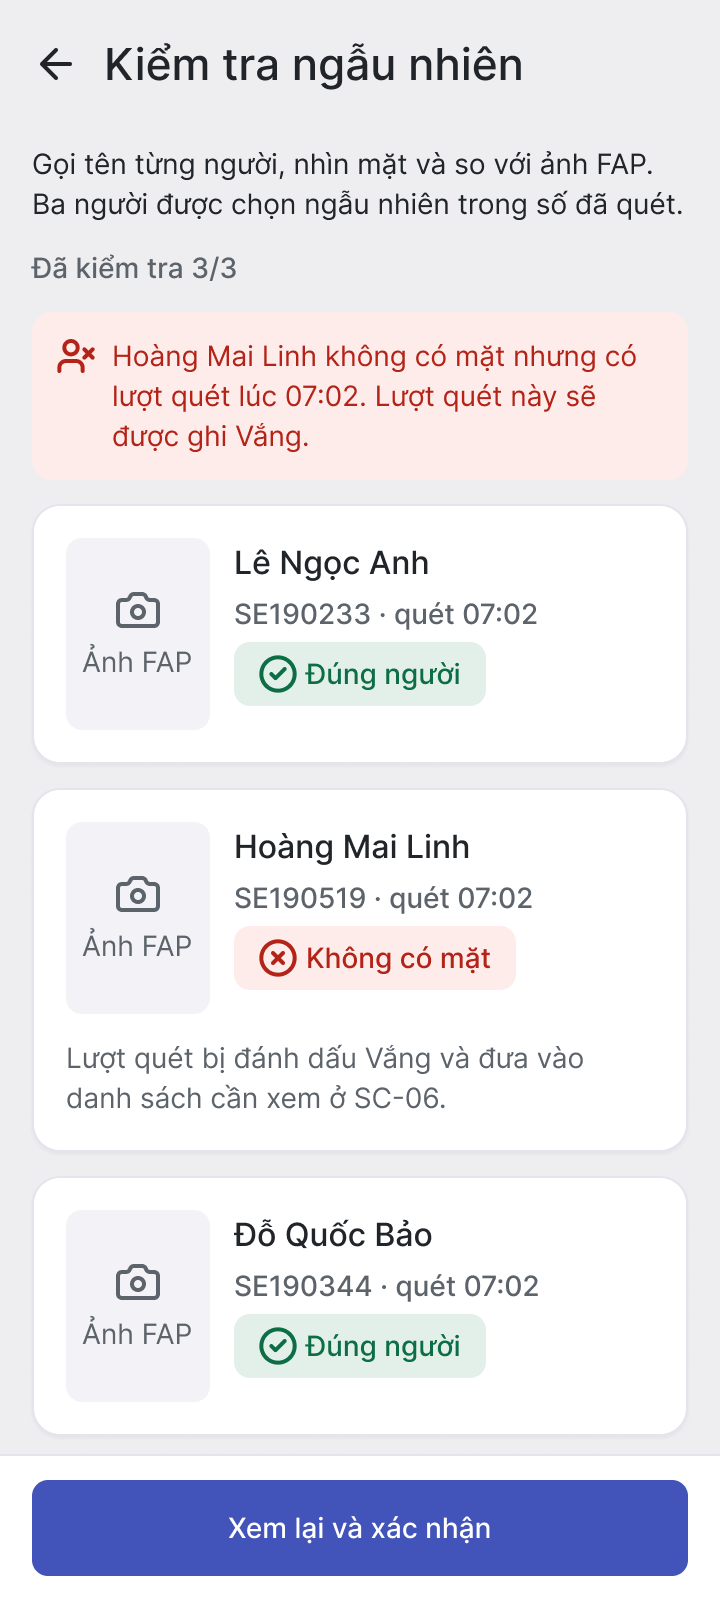
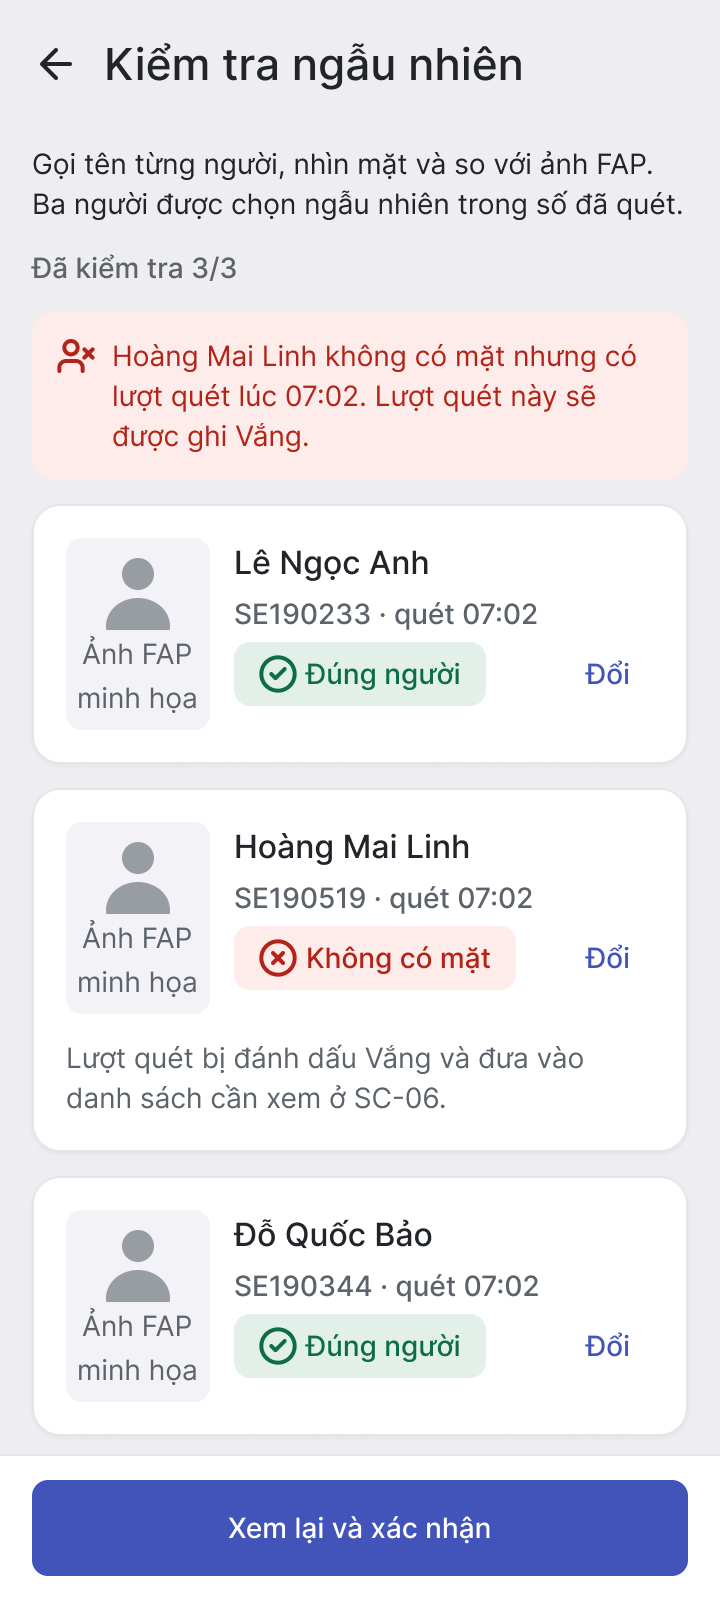
Sửa SC-05 và 9 nút ngoài kịch bản theo Codex Phần 2 (D-32)
CMP-15: ô ảnh thành hình minh họa có nhãn, thêm nút "Đổi" (CR-72,
CR-73). SC-08 sửa ô ảnh giống vậy. Trang 06: 9 nút ngoài kịch bản mở
overlay "Ngoài kịch bản demo" (CR-48). Xuất lại 8 ảnh, chạy lại bảng
liên kết prototype (184 tương tác, 0 liên kết hỏng).

Claude-Session: https://claude.ai/code/session_01MPJuKeLL2fQwoXmpsr75wd

diff --git a/design/prototype-links.md b/design/prototype-links.md
@@ -1,19 +1,22 @@
 # Bảng liên kết prototype (trang 06 Prototype)
 
-Bảng này do script đọc thẳng các `reactions` trên trang 06 của file Figma `9yDa2ylfREmndW1mK1hf7w` tạo ra, tối 15/10/2026, để người chấm không mở được chế độ Present vẫn kiểm được từng liên kết. Không có dòng nào gõ tay. Lý do làm: bản chấm chéo bằng Codex (AI-29) chỉ cho 5/10 phần prototype vì không chạy được prototype và repo không có bằng chứng liên kết (CR-66).
+Bảng này do script đọc thẳng các `reactions` trên trang 06 của file Figma `9yDa2ylfREmndW1mK1hf7w` tạo ra, để người chấm không mở được chế độ Present vẫn kiểm được từng liên kết. Không có dòng nào gõ tay. Lý do làm: bản chấm chéo bằng Codex (AI-29) chỉ cho 5/10 phần prototype vì không chạy được prototype và repo không có bằng chứng liên kết (CR-66). Chạy lần đầu tối 15/10/2026 (166 tương tác), chạy lại đêm 15/10 sau D-32 (thêm overlay “Ngoài kịch bản demo” và nút “Đổi” ở SC-05). Script bỏ qua phần tử nằm dưới một hotspot, vì khi bấm thì hotspot nhận trước.
 
 ## Số liệu
 
 | Mục | Giá trị |
 |---|---|
-| Frame trên trang 06 | 84 (kể cả 6 overlay, tên bắt đầu “OV”) |
+| Frame trên trang 06 | 85 (kể cả 7 overlay, tên bắt đầu “OV”) |
 | Điểm bắt đầu (flow starting point) | 12 |
-| Tương tác | 166 |
+| Tương tác | 184 |
 | Liên kết trỏ tới frame không tồn tại | 0 |
 | Frame không có lối ra | 0 |
 | Frame không có lối vào (trừ điểm bắt đầu) | 0 |
+| Nút ngoài kịch bản demo (mở overlay [84]) | 9 |
 
 Số trong ngoặc vuông là thứ tự frame trên trang 06. Một màn có thể có nhiều bản sao (ví dụ “lần 1”, “lần 2”, “sau Vy”) để mỗi luồng đi đúng một đường, không phụ thuộc trạng thái trước đó.
+
+Nút ngoài kịch bản demo là nút có trong thiết kế nhưng prototype chưa vẽ màn tiếp theo (CR-48): hai nút “Từ chối” và hai nút “Sửa thành Có mặt” ở SC-08 (mỗi ca chỉ vẽ một kết cục), bốn nút Có mặt / Vắng ở SC-06 nhánh còn lượt cần xem, và “Chiếu tạm mã từ điện thoại” ở SC-03. Bấm vào thì hiện overlay [84] nói rõ điều đó, thay vì không có gì xảy ra.
 
 ## Điểm bắt đầu
 
@@ -55,11 +58,15 @@ Số trong ngoặc vuông là thứ tự frame trên trang 06. Một màn có th
 | [06] SC-04 · Đối chiếu sĩ số · Số quét lớn hơn số người | Kiểm tra ngẫu nhiên | Bấm | [07] SC-05 · Kiểm tra ngẫu nhiên |
 | [06] SC-04 · Đối chiếu sĩ số · Số quét lớn hơn số người | hotspot · back | Bấm | Quay lại màn trước (Back) |
 | [07] SC-05 · Kiểm tra ngẫu nhiên | Ảnh FAP | Bấm | [08] SC-05 · Kiểm tra ngẫu nhiên · Đã kiểm tra 3/3 |
+| [07] SC-05 · Kiểm tra ngẫu nhiên | Đổi | Bấm | Đổi thẻ về trạng thái “Chờ” ngay trên màn (variant của CMP-15) |
 | [07] SC-05 · Kiểm tra ngẫu nhiên | Ảnh FAP | Bấm | [08] SC-05 · Kiểm tra ngẫu nhiên · Đã kiểm tra 3/3 |
 | [07] SC-05 · Kiểm tra ngẫu nhiên | Ảnh FAP | Bấm | [08] SC-05 · Kiểm tra ngẫu nhiên · Đã kiểm tra 3/3 |
 | [07] SC-05 · Kiểm tra ngẫu nhiên | hotspot · back | Bấm | Quay lại màn trước (Back) |
 | [08] SC-05 · Kiểm tra ngẫu nhiên · Đã kiểm tra 3/3 | Xem lại và xác nhận | Bấm | [09] SC-06 · Xem lại và xác nhận |
 | [08] SC-05 · Kiểm tra ngẫu nhiên · Đã kiểm tra 3/3 | hotspot · back | Bấm | Quay lại màn trước (Back) |
+| [08] SC-05 · Kiểm tra ngẫu nhiên · Đã kiểm tra 3/3 | hotspot · Đổi | Bấm | [07] SC-05 · Kiểm tra ngẫu nhiên |
+| [08] SC-05 · Kiểm tra ngẫu nhiên · Đã kiểm tra 3/3 | hotspot · Đổi | Bấm | [07] SC-05 · Kiểm tra ngẫu nhiên |
+| [08] SC-05 · Kiểm tra ngẫu nhiên · Đã kiểm tra 3/3 | hotspot · Đổi | Bấm | [07] SC-05 · Kiểm tra ngẫu nhiên |
 | [09] SC-06 · Xem lại và xác nhận | Ghi tay thêm sinh viên | Bấm | [71] OV · Sheet Ghi tay thêm sinh viên (overlay) |
 | [09] SC-06 · Xem lại và xác nhận | Xác nhận và gửi lên FAP | Bấm | [16] OV · Dialog xác nhận gửi lên FAP (overlay) |
 | [09] SC-06 · Xem lại và xác nhận | hotspot · back | Bấm | Quay lại màn trước (Back) |
@@ -142,6 +149,7 @@ Số trong ngoặc vuông là thứ tự frame trên trang 06. Một màn có th
 | [52] SC-07 · Báo sai hôm nay | hotspot · tab left | Bấm | [51] SC-02 · Lịch dạy hôm nay · Có báo sai mới |
 | [53] SC-08 · Chi tiết báo sai · Hoàng Mai Linh | Từ chối | Bấm | [58] OV · Dialog từ chối báo sai (overlay) |
 | [53] SC-08 · Chi tiết báo sai · Hoàng Mai Linh | hotspot · back | Bấm | Quay lại màn trước (Back) |
+| [53] SC-08 · Chi tiết báo sai · Hoàng Mai Linh | hotspot · Sửa thành Có mặt ( | Bấm | [84] OV · Ngoài kịch bản demo (overlay) |
 | [54] SC-08 · Chi tiết báo sai · Đã sửa | Về danh sách báo sai | Bấm | [55] SC-07 · Báo sai hôm nay · Đã xử lý hết |
 | [54] SC-08 · Chi tiết báo sai · Đã sửa | hotspot · back | Bấm | [55] SC-07 · Báo sai hôm nay · Đã xử lý hết |
 | [55] SC-07 · Báo sai hôm nay · Đã xử lý hết | hotspot · tab left | Bấm | [57] SC-02 · Lịch dạy hôm nay · Đã xử lý hết báo sai |
@@ -154,6 +162,7 @@ Số trong ngoặc vuông là thứ tự frame trên trang 06. Một màn có th
 | [59] OV · Sheet Không quét được? | Đã hiểu | Bấm | Đóng overlay |
 | [60] SC-08 · Chi tiết báo sai · Ngô Thanh Vy | Sửa thành Có mặt | Bấm | [54] SC-08 · Chi tiết báo sai · Đã sửa |
 | [60] SC-08 · Chi tiết báo sai · Ngô Thanh Vy | hotspot · back | Bấm | Quay lại màn trước (Back) |
+| [60] SC-08 · Chi tiết báo sai · Ngô Thanh Vy | hotspot · Từ chối (ngoài kịc | Bấm | [84] OV · Ngoài kịch bản demo (overlay) |
 | [61] SC-09 · Hôm nay (sinh viên) · Báo sai có kết quả (K3) | Link · Báo sai điểm danh | Bấm | [45] SC-14 · Báo sai của tôi · Đã sửa |
 | [61] SC-09 · Hôm nay (sinh viên) · Báo sai có kết quả (K3) | hotspot · tab right | Bấm | [45] SC-14 · Báo sai của tôi · Đã sửa |
 | [62] SC-09 · Hôm nay (sinh viên) · Báo sai có kết quả, đã xem | Link · Báo sai điểm danh | Bấm | [45] SC-14 · Báo sai của tôi · Đã sửa |
@@ -163,12 +172,14 @@ Số trong ngoặc vuông là thứ tự frame trên trang 06. Một màn có th
 | [64] SC-09 · Hôm nay (sinh viên) · Báo sai bị từ chối | hotspot · tab right | Bấm | [47] SC-14 · Báo sai của tôi · Bị từ chối |
 | [65] SC-08 · Chi tiết báo sai · Ngô Thanh Vy (xử lý trước) | Sửa thành Có mặt | Bấm | [66] SC-08 · Chi tiết báo sai · Đã sửa (Vy trước) |
 | [65] SC-08 · Chi tiết báo sai · Ngô Thanh Vy (xử lý trước) | hotspot · back | Bấm | Quay lại màn trước (Back) |
+| [65] SC-08 · Chi tiết báo sai · Ngô Thanh Vy (xử lý trước) | hotspot · Từ chối (ngoài kịc | Bấm | [84] OV · Ngoài kịch bản demo (overlay) |
 | [66] SC-08 · Chi tiết báo sai · Đã sửa (Vy trước) | Về danh sách báo sai | Bấm | [67] SC-07 · Báo sai hôm nay · Sau khi sửa Vy |
 | [66] SC-08 · Chi tiết báo sai · Đã sửa (Vy trước) | hotspot · back | Bấm | [67] SC-07 · Báo sai hôm nay · Sau khi sửa Vy |
 | [67] SC-07 · Báo sai hôm nay · Sau khi sửa Vy | Hoàng Mai Linh · PRM393 Slot | Bấm | [68] SC-08 · Chi tiết báo sai · Hoàng Mai Linh (sau Vy) |
 | [67] SC-07 · Báo sai hôm nay · Sau khi sửa Vy | hotspot · tab left | Bấm | [70] SC-02 · Lịch dạy hôm nay · Còn 1 báo sai (Linh) |
 | [68] SC-08 · Chi tiết báo sai · Hoàng Mai Linh (sau Vy) | Từ chối | Bấm | [69] OV · Dialog từ chối báo sai (sau Vy) (overlay) |
 | [68] SC-08 · Chi tiết báo sai · Hoàng Mai Linh (sau Vy) | hotspot · back | Bấm | Quay lại màn trước (Back) |
+| [68] SC-08 · Chi tiết báo sai · Hoàng Mai Linh (sau Vy) | hotspot · Sửa thành Có mặt ( | Bấm | [84] OV · Ngoài kịch bản demo (overlay) |
 | [69] OV · Dialog từ chối báo sai (sau Vy) | hotspot · Hủy | Bấm | Đóng overlay |
 | [69] OV · Dialog từ chối báo sai (sau Vy) | hotspot · Từ chối | Bấm | [79] SC-08 · Chi tiết báo sai · Đã từ chối (sau Vy) |
 | [70] SC-02 · Lịch dạy hôm nay · Còn 1 báo sai (Linh) | hotspot · tab right | Bấm | [67] SC-07 · Báo sai hôm nay · Sau khi sửa Vy |
@@ -188,6 +199,7 @@ Số trong ngoặc vuông là thứ tự frame trên trang 06. Một màn có th
 | [77] SC-03 · Phiên điểm danh · Laptop chưa kết nối | cả frame | Tự chuyển sau thời gian chờ | [03] SC-03 · Phiên điểm danh |
 | [77] SC-03 · Phiên điểm danh · Laptop chưa kết nối | Đóng QR và kiểm tra | Bấm | [15] OV · Dialog đóng QR sớm (overlay) |
 | [77] SC-03 · Phiên điểm danh · Laptop chưa kết nối | hotspot · back | Bấm | Quay lại màn trước (Back) |
+| [77] SC-03 · Phiên điểm danh · Laptop chưa kết nối | hotspot · Chiếu tạm mã từ đi | Bấm | [84] OV · Ngoài kịch bản demo (overlay) |
 | [78] SC-08 · Chi tiết báo sai · Đã từ chối (Giữ Vắng) | Về danh sách báo sai | Bấm | [56] SC-07 · Báo sai hôm nay · Sau khi từ chối |
 | [78] SC-08 · Chi tiết báo sai · Đã từ chối (Giữ Vắng) | hotspot · back | Bấm | [56] SC-07 · Báo sai hôm nay · Sau khi từ chối |
 | [79] SC-08 · Chi tiết báo sai · Đã từ chối (sau Vy) | Về danh sách báo sai | Bấm | [55] SC-07 · Báo sai hôm nay · Đã xử lý hết |
@@ -195,10 +207,19 @@ Số trong ngoặc vuông là thứ tự frame trên trang 06. Một màn có th
 | [80] SC-04 · Đối chiếu sĩ số · Số quét lớn hơn số người (nhánh cờ) | Kiểm tra ngẫu nhiên | Bấm | [81] SC-05 · Kiểm tra ngẫu nhiên (nhánh cờ) |
 | [80] SC-04 · Đối chiếu sĩ số · Số quét lớn hơn số người (nhánh cờ) | hotspot · back | Bấm | Quay lại màn trước (Back) |
 | [81] SC-05 · Kiểm tra ngẫu nhiên (nhánh cờ) | Ảnh FAP | Bấm | [82] SC-05 · Kiểm tra ngẫu nhiên · Đã kiểm tra 3/3 (nhánh cờ) |
+| [81] SC-05 · Kiểm tra ngẫu nhiên (nhánh cờ) | Đổi | Bấm | Đổi thẻ về trạng thái “Chờ” ngay trên màn (variant của CMP-15) |
 | [81] SC-05 · Kiểm tra ngẫu nhiên (nhánh cờ) | Ảnh FAP | Bấm | [82] SC-05 · Kiểm tra ngẫu nhiên · Đã kiểm tra 3/3 (nhánh cờ) |
 | [81] SC-05 · Kiểm tra ngẫu nhiên (nhánh cờ) | Ảnh FAP | Bấm | [82] SC-05 · Kiểm tra ngẫu nhiên · Đã kiểm tra 3/3 (nhánh cờ) |
 | [81] SC-05 · Kiểm tra ngẫu nhiên (nhánh cờ) | hotspot · back | Bấm | Quay lại màn trước (Back) |
 | [82] SC-05 · Kiểm tra ngẫu nhiên · Đã kiểm tra 3/3 (nhánh cờ) | Xem lại và xác nhận | Bấm | [83] SC-06 · Xem lại và xác nhận · Còn lượt quét cần xem (NT-3) |
 | [82] SC-05 · Kiểm tra ngẫu nhiên · Đã kiểm tra 3/3 (nhánh cờ) | hotspot · back | Bấm | Quay lại màn trước (Back) |
+| [82] SC-05 · Kiểm tra ngẫu nhiên · Đã kiểm tra 3/3 (nhánh cờ) | hotspot · Đổi | Bấm | [81] SC-05 · Kiểm tra ngẫu nhiên (nhánh cờ) |
+| [82] SC-05 · Kiểm tra ngẫu nhiên · Đã kiểm tra 3/3 (nhánh cờ) | hotspot · Đổi | Bấm | [81] SC-05 · Kiểm tra ngẫu nhiên (nhánh cờ) |
+| [82] SC-05 · Kiểm tra ngẫu nhiên · Đã kiểm tra 3/3 (nhánh cờ) | hotspot · Đổi | Bấm | [81] SC-05 · Kiểm tra ngẫu nhiên (nhánh cờ) |
 | [83] SC-06 · Xem lại và xác nhận · Còn lượt quét cần xem (NT-3) | Ghi tay thêm sinh viên | Bấm | [71] OV · Sheet Ghi tay thêm sinh viên (overlay) |
 | [83] SC-06 · Xem lại và xác nhận · Còn lượt quét cần xem (NT-3) | hotspot · back | Bấm | Quay lại màn trước (Back) |
+| [83] SC-06 · Xem lại và xác nhận · Còn lượt quét cần xem (NT-3) | hotspot · Có mặt (ngoài kịch | Bấm | [84] OV · Ngoài kịch bản demo (overlay) |
+| [83] SC-06 · Xem lại và xác nhận · Còn lượt quét cần xem (NT-3) | hotspot · Vắng (ngoài kịch b | Bấm | [84] OV · Ngoài kịch bản demo (overlay) |
+| [83] SC-06 · Xem lại và xác nhận · Còn lượt quét cần xem (NT-3) | hotspot · Có mặt (ngoài kịch | Bấm | [84] OV · Ngoài kịch bản demo (overlay) |
+| [83] SC-06 · Xem lại và xác nhận · Còn lượt quét cần xem (NT-3) | hotspot · Vắng (ngoài kịch b | Bấm | [84] OV · Ngoài kịch bản demo (overlay) |
+| [84] OV · Ngoài kịch bản demo | hotspot · Đã hiểu | Bấm | Đóng overlay |

diff --git a/ai/reviews/AI-29-triage.md b/ai/reviews/AI-29-triage.md
@@ -4,7 +4,7 @@
 |---|---|
 | Đầu vào | `ai/reviews/AI-29-codex-phan-1.md` và `ai/reviews/AI-29-codex-phan-2.md` (nguyên văn), commit Codex chấm `1242923` |
 | Người phân loại | Claude, 15/10/2026 tối |
-| Trạng thái | Đã duyệt (thien, 15/10/2026): chọn “Sửa 3 lỗi chữ” trên thẻ quyết định. CR-63, CR-67, CR-68 đã sửa; CR-70 giữ 3 màn đại diện. Mục 7 (Phần 2) chờ thien quyết |
+| Trạng thái | Đã duyệt (thien, 15/10/2026): chọn “Sửa 3 lỗi chữ” trên thẻ quyết định. CR-63, CR-67, CR-68 đã sửa; CR-70 giữ 3 màn đại diện. Mục 7 (Phần 2): thien chọn “Sửa cả hai” (D-32) |
 | Cách kiểm | Mở lại từng frame trên Figma (trang 03 và 06) và đối chiếu với `design/screen-spec.md`. Mỗi kết luận bên dưới trỏ về một ảnh hoặc một dòng trong repo |
 
 **Lưu ý về thiên lệch:** người phân loại là Claude, cũng là mô hình đã dựng phần lớn bài. Vì vậy một phát hiện của Codex chỉ được ghi là “Không đúng” khi có ảnh xuất từ Figma cho thấy điều ngược lại. Ảnh đó nay nằm trong repo để ai cũng kiểm lại được. Phát hiện nào chỉ phản bác được bằng lời mô tả thì giữ là “Đúng một phần” hoặc “Đúng”.
@@ -71,9 +71,9 @@ Codex đối chiếu ở commit `1242923`, chưa thấy `6bf3c45` (CR-66) và `6
 | Nhận định của Codex | Kiểm lại | Việc |
 |---|---|---|
 | SC-04 “Chênh −1” cạnh “Dư 1”: điểm mù của Claude | Đúng. Đã sửa ở `61685f2` (CR-63, D-31) | Xong |
-| SC-05 ô “Ảnh FAP” trống đụng thẳng lý do chống quét hộ (DD-3) | **Đúng, nặng hơn Phần 1.** Màn bảo giảng viên “nhìn mặt và so với ảnh FAP” (`design/screen-spec.md` SC-05 mục 2) nhưng không có ảnh nào để so. Người xem không biết bản thật có ảnh | CR-72 nâng lên Trung bình. Đề xuất ghi nhãn “Ảnh hồ sơ FAP · minh họa” ngay trên Figma, không dùng ảnh người thật. Chờ thien |
-| SC-05 thiếu phản hồi và hoàn tác | **Đúng một nửa.** Có phản hồi: frame “Đã kiểm tra 3/3” hiện kết quả từng thẻ và banner. Không có hoàn tác: bấm nhầm “Không có mặt” thì lượt quét bị ghi Vắng, SC-06 không có chỗ đổi lại, sinh viên chỉ còn đường báo sai | CR-73 · Trung bình. Đề xuất thêm nút “Đổi” trên thẻ đã kiểm. Chờ thien |
-| 9 nút không phản hồi trên prototype (ưu tiên 1 của Codex) | **Đúng.** CR-48 đã ghi lý do cho 9 nút, nhưng khi demo trực tiếp, bấm nhầm một nút sẽ không có gì xảy ra và trông như prototype hỏng | Đề xuất trên trang 06: nối 9 nút tới một overlay “Ngoài kịch bản demo” có nút Đóng. Không đổi trang 03. Chờ thien |
+| SC-05 ô “Ảnh FAP” trống đụng thẳng lý do chống quét hộ (DD-3) | **Đúng, nặng hơn Phần 1.** Màn bảo giảng viên “nhìn mặt và so với ảnh FAP” (`design/screen-spec.md` SC-05 mục 2) nhưng không có ảnh nào để so. Người xem không biết bản thật có ảnh | CR-72 nâng lên Trung bình. **Đã sửa (D-32):** ô ảnh ở SC-05 và SC-08 thành hình người minh họa có nhãn “Ảnh FAP · minh họa”, không dùng ảnh người thật |
+| SC-05 thiếu phản hồi và hoàn tác | **Đúng một nửa.** Có phản hồi: frame “Đã kiểm tra 3/3” hiện kết quả từng thẻ và banner. Không có hoàn tác trên Figma và trong spec: bấm nhầm “Không có mặt” thì lượt quét bị ghi Vắng, SC-06 không có chỗ đổi lại, sinh viên chỉ còn đường báo sai. Khi sửa, Claude thấy handoff (SC-05 mục 4, CMP-15) đã viết nút “Đổi” từ trước, nên đây còn là chỗ handoff và Figma lệch nhau | CR-73 · Trung bình. **Đã sửa (D-32):** CMP-15 có nút “Đổi”, spec ghi theo |
+| 9 nút không phản hồi trên prototype (ưu tiên 1 của Codex) | **Đúng.** CR-48 đã ghi lý do cho 9 nút, nhưng khi demo trực tiếp, bấm nhầm một nút sẽ không có gì xảy ra và trông như prototype hỏng | **Đã sửa (D-32):** trên trang 06, 9 nút mở overlay “Ngoài kịch bản demo” có nút “Đã hiểu”. Trang 03 giữ nguyên. Bảng liên kết chạy lại: 184 tương tác, 0 liên kết hỏng |
 | SC-08 không có ảnh dialog từ chối | Đúng ở `1242923`. Nay có `SC-08-dialog-tu-choi-destructive.png` (CR-66). Không có ô nhập lý do là chủ ý (mục 2, phát hiện 8) | Không làm thêm |
 | 412 dp chỉ 3 màn | Đúng. thien đã chọn giữ 3 màn (D-31) | Không làm thêm |
 | Link slide chưa chứng minh là xem được | Đúng. README vẫn ghi “cần được chia sẻ quyền xem” | Việc của thien: bật chia sẻ, mở thử bằng cửa sổ ẩn danh, tải bản PDF dự phòng |

diff --git a/handoff/flutter-handoff.md b/handoff/flutter-handoff.md
@@ -226,8 +226,8 @@ Mỗi màn có 6 mục theo đề bài. Tên frame trong ngoặc kép là tên f
 
 1. **Bố cục.** `Scaffold` → `AppBar` (CMP-05 Default “Kiểm tra ngẫu nhiên”) → `ListView`, padding `s4`: hướng dẫn `bodyMedium` → khoảng `s3` → tiến độ “Đã kiểm tra n/3” `titleMedium` → banner kết quả (nếu có người không có mặt) → 3 thẻ CMP-15 cách nhau `s3` → thanh hành động đáy: dòng nhắc (khi chưa đủ) và nút chính.
 2. **Component.** CMP-05 · Default; CMP-15 Spot-check card · Chờ, Đúng người, Không có mặt; CMP-10 · Đúng người, Không có mặt (sau khi chọn); banner nền `errorContainer`; CMP-01 · Primary (Disabled khi chưa đủ 3).
-3. **Trạng thái.** Đang kiểm (“SC-05 · Kiểm tra ngẫu nhiên (L4)”). Đã kiểm 3/3, có người không có mặt (“… · Đã kiểm tra 3/3”). Đã kiểm 3/3, cả 3 đúng người: không có banner. Ảnh FAP không tải được: hiện chữ cái đầu trên nền `surfaceContainerHighest` và dòng “Không tải được ảnh FAP”; giảng viên vẫn chọn được.
-4. **Tương tác.** Ba người được máy chủ chọn ngẫu nhiên trong số đã quét lúc màn mở; không chọn lại khi quay lại màn. Chạm “Đúng người” hoặc “Không có mặt” trên từng thẻ; chọn “Không có mặt” thì lượt quét đó chuyển thành Vắng và được ghi lý do “không có mặt khi kiểm tra”. Đổi ý: chạm “Đổi” trên thẻ đã chọn. Theo FL-1, khi có người không có mặt, hệ thống thêm 3 thẻ nữa (chưa vẽ; prototype đi thẳng sang SC-06). “Xem lại và xác nhận” chỉ bật khi mọi thẻ đã có kết quả.
+3. **Trạng thái.** Đang kiểm (“SC-05 · Kiểm tra ngẫu nhiên (L4)”). Đã kiểm 3/3, có người không có mặt (“… · Đã kiểm tra 3/3”). Đã kiểm 3/3, cả 3 đúng người: không có banner. Ảnh FAP không tải được: hiện chữ cái đầu trên nền `surfaceContainerHighest` và dòng “Không tải được ảnh FAP”; giảng viên vẫn chọn được. Ô ảnh trên Figma là hình người minh họa có nhãn “minh họa”; app thật hiện ảnh hồ sơ FAP (CR-72).
+4. **Tương tác.** Ba người được máy chủ chọn ngẫu nhiên trong số đã quét lúc màn mở; không chọn lại khi quay lại màn. Chạm “Đúng người” hoặc “Không có mặt” trên từng thẻ; chọn “Không có mặt” thì lượt quét đó chuyển thành Vắng và được ghi lý do “không có mặt khi kiểm tra”. Đổi ý: chạm “Đổi” trên thẻ đã chọn, thẻ về trạng thái Chờ và lượt quét bỏ dấu Vắng (CR-73; trên Figma là biến thể CMP-15 có nút “Đổi” từ 15/10). Theo FL-1, khi có người không có mặt, hệ thống thêm 3 thẻ nữa (chưa vẽ; prototype đi thẳng sang SC-06). “Xem lại và xác nhận” chỉ bật khi mọi thẻ đã có kết quả.
 5. **Điều hướng.** Vào từ: SC-04. Đi tới: SC-06 (`push`). Back: về SC-04, kết quả đã chọn được giữ.
 6. **Ràng buộc.** Ảnh FAP 72 × 72, bo `AppRadius.md`, có `semanticLabel` “Ảnh FAP của Lê Ngọc Anh”. Hai nút trên thẻ mỗi nút cao 48, chia đôi chiều rộng; chữ lớn thì xếp dọc. Không cho bỏ qua kiểm tra (NT-3).
 

diff --git a/process/decision-log.md b/process/decision-log.md
@@ -36,3 +36,4 @@ Trạng thái: **MỞ** (chờ thien) · **CHỐT** · **TẠM** (Claude làm ti
 | D-29 | TC-1 (≤ 2 phút 30 giây) đo từ lúc nào? | A. Từ lúc QR đóng tới lúc xác nhận: chỉ tính phần việc riêng của giảng viên · B. Từ đầu slot: ≤ 7 phút 30 giây (5 phút QR + 2 phút 30) · C. Giữ từ lúc mở QR | **A.** Bản chấm độc lập (AI-27, N-5) chỉ ra TC-1 cũ không thể đạt: D-28 giữ QR mở 5 phút, nên “từ lúc mở QR ≤ 2:30” mâu thuẫn với chính thiết kế. B trung thực nhưng ngang mức gọi tên 6–8 phút (Q08), mất lập luận “nhanh hơn”. A đo đúng phần giảng viên phải làm; đổi lại thêm một giả định Assumed: giảng viên vào bài trong 5 phút QR mở, cần kiểm chứng trong buổi thử | **A · Từ lúc QR đóng** (thien chọn trên thẻ quyết định, 15/10/2026) | CHỐT |
 | D-30 | File Figma đang nằm trong team của một tài khoản edu mượn để có lượt gọi Figma MCP. Chuyển sang tài khoản của nhóm hay giữ nguyên? | A. Giữ nguyên, ghi rõ trong README · B. Chuyển sang tài khoản của nhóm trước buổi thuyết trình | **A.** Chuyển file làm mất lịch sử phiên bản, mà lịch sử đó là bằng chứng Figma dựng sau Stitch. Bản sao trên tài khoản của thien đã có nhưng không có lịch sử, nên chỉ để dự phòng. Ghi thẳng trong README để người chấm không phải đoán | A, ngày 15/10/2026 (nguyên văn: “giữ nguyên”) | CHỐT |
 | D-31 | Sau chấm chéo Codex (AI-29), sửa ba lỗi chữ CR-63 (SC-04), CR-67 (SC-03 mở từ xa), CR-68 (SC-11) trên Figma ngay tối 15/10? CR-63 trước đó đã được duyệt là hạn chế | A. Sửa 3 lỗi chữ, 412 dp giữ 3 màn đại diện · B. Sửa chữ và thêm 4 màn 412 dp · C. Giữ nguyên, ghi là hạn chế | **A.** Hai bản chấm độc lập (Claude và Codex) cùng bắt CR-63, Codex xếp mức Cao. Ba lỗi đều chỉ là chữ, sửa được mà không đổi luồng. Thêm 412 dp tốn quota Figma mượn mà 3 màn đại diện đã đủ cho thấy bố cục co giãn | A · Sửa 3 lỗi chữ (thien chọn trên thẻ quyết định, 15/10/2026 tối) | CHỐT |
+| D-32 | Sau Codex Phần 2, sửa SC-05 (ô ảnh FAP trống, không hoàn tác được “Không có mặt”) và 9 nút không phản hồi trên prototype trước buổi thuyết trình? | A. Sửa cả hai · B. Chỉ sửa SC-05 · C. Giữ nguyên, ghi là hạn chế | **A.** Ô ảnh trống làm yếu lý do chống quét hộ (DD-3), và nút im lặng lúc demo dễ bị đọc là prototype hỏng. Sửa cả hai chỉ tốn khoảng 3 lượt gọi Figma | A · Sửa cả hai (thien chọn trên thẻ quyết định, 16/10/2026 01:02) | CHỐT |

diff --git a/process/traceability-matrix.md b/process/traceability-matrix.md
@@ -76,8 +76,8 @@ Nguồn (S/H, R, O, T, Survey) → Phát hiện F → Nhu cầu N → Persona P 
 | CR-49..CR-53 (bản chấm độc lập, đợt 5, 15/10) | Nielsen #4, #8; UI Simplicity A4; D-27; D-29 | Accept, sửa luôn | D-27, D-29 | SC-01, SC-02, FL-1, FL-2 (trang 01), CMP-08, CMP-14 (trang 05), trang 03, 06 |
 | CR-54..CR-63 (critique Stitch IT-0b và IT-3, 15/10) | Nielsen #1, #2, #4, #8; WCAG 1.4.4, 1.4.10; D-21, D-23, D-24 | Accept 8 (Figma đã đúng), Reject CR-62, Modify CR-63, ban đầu ghi là hạn chế (thien duyệt 15/10), sau AI-29 thì sửa (D-31) | D-21, D-23, D-24 | SC-02, SC-03, SC-04, SC-05, SC-06 (`design/stitch-critique-it3.md`) |
 | CR-64, CR-65 (Claude tự rà, 15/10 tối) | Nielsen #4; nhất quán dữ liệu với D-29 | Accept, sửa luôn | D-29 | SC-04, SC-05, SC-06, SC-07, CMP-11, CMP-15; 29 ảnh `assets/figma/` |
-| CR-66..CR-72 (chấm chéo Codex AI-29, 15/10 tối) | Rubric “Prototype”, “Component states”; Nielsen #1, #2, #9; WCAG 1.4.10 | CR-66 Accept, đã làm; CR-67, CR-68 Accept, đã sửa; CR-69 hạn chế; CR-70 giữ 3 màn (thien chọn); CR-71 việc của nhóm; CR-72 Modify | — | SC-03, SC-05, SC-11, SC-13; `assets/figma/INDEX.md`, `design/prototype-links.md` (`ai/reviews/AI-29-triage.md`) |
-| CR-73 (Codex Phần 2, 15/10 tối) | Nielsen #3 (kiểm soát và tự do), #5 | Chờ thien | D-21 | SC-05 (`ai/reviews/AI-29-triage.md` mục 7) |
+| CR-66..CR-72 (chấm chéo Codex AI-29, 15/10 tối) | Rubric “Prototype”, “Component states”; Nielsen #1, #2, #9; WCAG 1.4.10 | CR-66 Accept, đã làm; CR-67, CR-68 Accept, đã sửa; CR-69 hạn chế; CR-70 giữ 3 màn (thien chọn); CR-71 việc của nhóm; CR-72 sửa trên Figma (D-32) | — | SC-03, SC-05, SC-11, SC-13; `assets/figma/INDEX.md`, `design/prototype-links.md` (`ai/reviews/AI-29-triage.md`) |
+| CR-73 (Codex Phần 2, 15/10 tối) | Nielsen #3 (kiểm soát và tự do), #5 | Accept, sửa (D-32) | D-21, D-32 | SC-05 (`ai/reviews/AI-29-triage.md` mục 7) |
 
 ## 5. Kiểm tra độ phủ (chạy trước khi nộp)
 

diff --git a/design/final-ui-review.md b/design/final-ui-review.md
@@ -57,10 +57,13 @@ Nguồn: một phiên Claude riêng chấm lại toàn bộ bài theo đề, gui
 
 ## 5. Sửa theo chấm chéo Codex (AI-29, 15/10/2026 tối)
 
-Nguồn: `ai/reviews/AI-29-triage.md`. thien chọn “Sửa 3 lỗi chữ” (D-31).
+Nguồn: `ai/reviews/AI-29-triage.md`. thien chọn “Sửa 3 lỗi chữ” (D-31) sau Phần 1 và “Sửa cả hai” (D-32) sau Phần 2.
 
 | Mã | Lỗi | Sửa |
 |---|---|---|
 | CR-63 | SC-04 ghi “Chênh −1” trong khi banner ngay dưới nói “Dư 1 lượt quét” | Ô thứ ba thành “Quét dư”: số quét trừ số quét dự kiến (người trong phòng trừ người chưa quét được đánh dấu “Trong phòng”). Ba biến thể ghi +1, +1, 0 |
 | CR-67 | SC-03 Mở từ xa hứa “mã không bị chụp gửi ra ngoài”, nhưng người trong phòng vẫn chụp được mã trên màn hình lớp | Câu mới: mã chỉ xuất hiện trong phòng học, vẫn có thể bị chụp lại, nên khi vào lớp vẫn đối chiếu sĩ số |
 | CR-68 | SC-11 “Đã quét rồi” hiện hai giờ quét khác nhau (07:01:04 trong câu, 07:03:10 trong ô) | Nhãn ô đổi thành “Lần quét này” |
+| CR-72 | Ô “Ảnh FAP” ở SC-05 và SC-08 chỉ có biểu tượng máy ảnh. Màn bảo giảng viên so mặt với ảnh FAP mà không có ảnh để so, người xem không biết bản thật có ảnh | Hình người minh họa kèm chữ “minh họa”, không dùng ảnh người thật. Spec và handoff ghi rằng app thật lấy ảnh hồ sơ FAP |
+| CR-73 | SC-05 không hoàn tác được: bấm nhầm “Không có mặt” là lượt quét bị ghi Vắng. Handoff đã viết nút “Đổi” nhưng Figma chưa vẽ | CMP-15 thêm nút “Đổi” trên thẻ đã chọn, đưa thẻ về trạng thái Chờ |
+| CR-48 (tiếp) | 9 nút ngoài kịch bản vẫn im lặng khi bấm lúc demo | Trên trang 06, 9 nút mở overlay “Ngoài kịch bản demo” |

diff --git a/design/screen-spec.md b/design/screen-spec.md
@@ -166,7 +166,7 @@ Trong mục “Trạng thái” của từng màn, trạng thái nào có frame 
 2. Hướng dẫn: “Gọi tên từng người, nhìn mặt và so với ảnh FAP. Ba người được chọn ngẫu nhiên trong số đã quét.”
 3. Tiến độ “Đã kiểm tra 1/3”.
 4. Banner kết quả (khi có người không có mặt).
-5. Ba thẻ (CMP-15): ảnh FAP, tên, mã SV, giờ quét, hai nút “Đúng người” và “Không có mặt”.
+5. Ba thẻ (CMP-15): ảnh FAP, tên, mã SV, giờ quét, hai nút “Đúng người” và “Không có mặt”. Thẻ đã chọn hiện chip kết quả và nút “Đổi” để đưa thẻ về trạng thái chờ khi bấm nhầm (CR-73). Trên Figma, ô ảnh là hình người minh họa có nhãn “Ảnh FAP · minh họa”, vì bài không dùng ảnh người thật; bản thật lấy ảnh hồ sơ trên FAP (CR-72).
 6. Nút chính.
 
 **Hành động chính.** “Xem lại và xác nhận”. Nút tắt cho tới khi kiểm đủ 3 người, kèm dòng “Kiểm tra đủ 3 người để tiếp tục”.
@@ -236,7 +236,7 @@ Trong mục “Trạng thái” của từng màn, trạng thái nào có frame 
 
 **Nội dung từ trên xuống.**
 1. App bar “Chi tiết báo sai”, nút quay lại.
-2. Ảnh FAP, tên, mã SV, chip trạng thái đang ghi.
+2. Ảnh FAP (trên Figma là hình minh họa, như SC-05), tên, mã SV, chip trạng thái đang ghi.
 3. Bảng bằng chứng: “Buổi”, “Giờ quét” (giờ, hoặc “Không có (mất mạng 09:33)”), “Kiểm tra” (“Không có mặt lúc 07:07” hoặc “Không được chọn”).
 4. “Lời sinh viên · gửi 09:40” và nội dung lời báo.
 5. Dòng “Sinh viên nhận kết quả ngay khi thầy chọn”.

diff --git a/design/figma-build.md b/design/figma-build.md
@@ -187,3 +187,14 @@ thien chọn “Sửa 3 lỗi chữ” trên thẻ quyết định (D-31).
 | 06 Prototype | Cùng các thay đổi ở bản sao SC-04 và SC-03 Mở từ xa |
 
 Xuất lại 5 ảnh: `SC-04-doi-chieu-si-so.png`, `SC-04-so-quet-lon-hon-so-nguoi.png`, `SC-04-so-quet-nho-hon.png`, `SC-03-mo-tu-xa.png`, `SC-11-da-quet-roi.png`. Kiểm bằng mắt từng ảnh.
+
+## 12. Sửa theo Codex Phần 2 (16/10 rạng sáng, CR-72, CR-73, CR-48; D-32)
+
+| Trang | Thay đổi |
+|---|---|
+| 05 Components | CMP-15: ô ảnh thay biểu tượng máy ảnh bằng hình người minh họa và thêm chữ “minh họa”. Hai biến thể đã chọn có nút “Đổi” (CMP-01 Text), bấm thì đổi thẻ về biến thể “Chờ” (tương tác Change to) |
+| 03 Final UI | SC-05 tự cập nhật theo CMP-15. Ô ảnh ở 5 frame SC-08 sửa giống CMP-15 |
+| 06 Prototype | Thêm overlay “OV · Ngoài kịch bản demo” (bản sao dialog CMP-06, một nút “Đã hiểu” đóng overlay). 9 nút ngoài kịch bản (CR-48) mở overlay này. Ở hai frame “Đã kiểm tra 3/3”, nút “Đổi” quay về màn kiểm tra. Ô ảnh ở các frame SC-08 sửa như trang 03 |
+
+Xuất lại 8 ảnh: `SC-05-kiem-tra-ngau-nhien.png`, `SC-05-da-kiem-tra-3-3.png`, năm ảnh SC-08 và `page-05-components.png`; thêm `prototype-OV-ngoai-kich-ban-demo.png`. Bảng liên kết `design/prototype-links.md` chạy lại: 85 frame, 184 tương tác, 0 liên kết hỏng.
+

diff --git a/assets/figma/INDEX.md b/assets/figma/INDEX.md
@@ -80,4 +80,4 @@ Tổng: 69 frame 360 × 800, 3 frame 412 × 915 (kiểm 412 dp), 1 frame web 128
 | SC-06 · Xem lại và xác nhận · 412 dp | `51:2635` | [a11y-412-SC-06.png](a11y-412-SC-06.png) |
 | SC-09 · Hôm nay (sinh viên) · Buổi tối, có buổi Vắng · 412 dp | `51:2671` | [a11y-412-SC-09.png](a11y-412-SC-09.png) |
 
-Ảnh luồng (trang 01): `FL-1-user-flow.png`, `FL-2-user-flow.png`, `FL-3-user-flow.png`. Trang 02: `wireframe-SC-03.png`, `wireframe-SC-08.png`. Trang 04 và 05: `page-04-design-system.png`, `page-05-components.png`.
+Ảnh luồng (trang 01): `FL-1-user-flow.png`, `FL-2-user-flow.png`, `FL-3-user-flow.png`. Trang 02: `wireframe-SC-03.png`, `wireframe-SC-08.png`. Trang 04 và 05: `page-04-design-system.png`, `page-05-components.png`. Trang 06: `prototype-OV-ngoai-kich-ban-demo.png` (overlay hiện khi bấm nút ngoài kịch bản demo, D-32).
